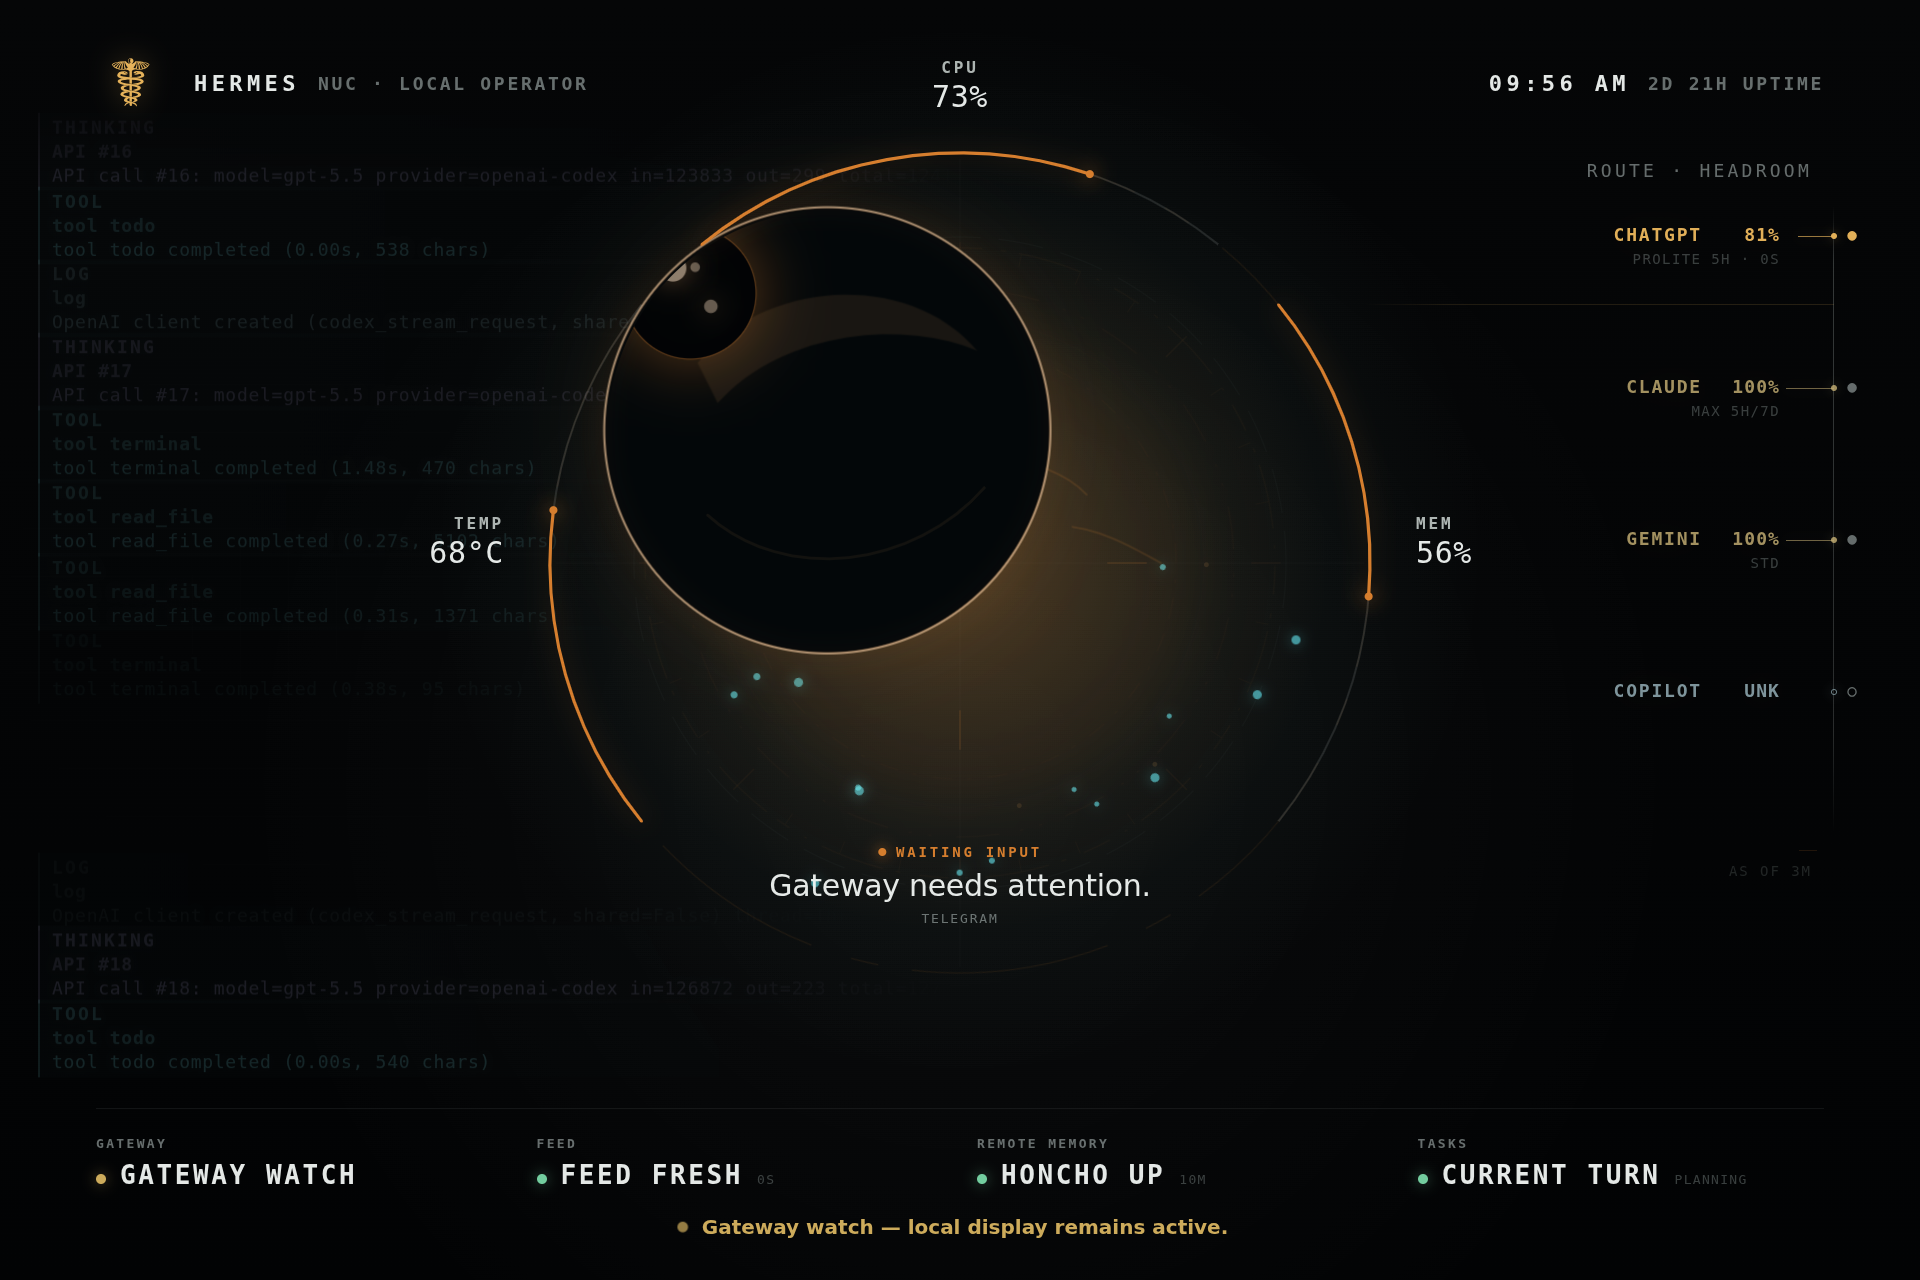
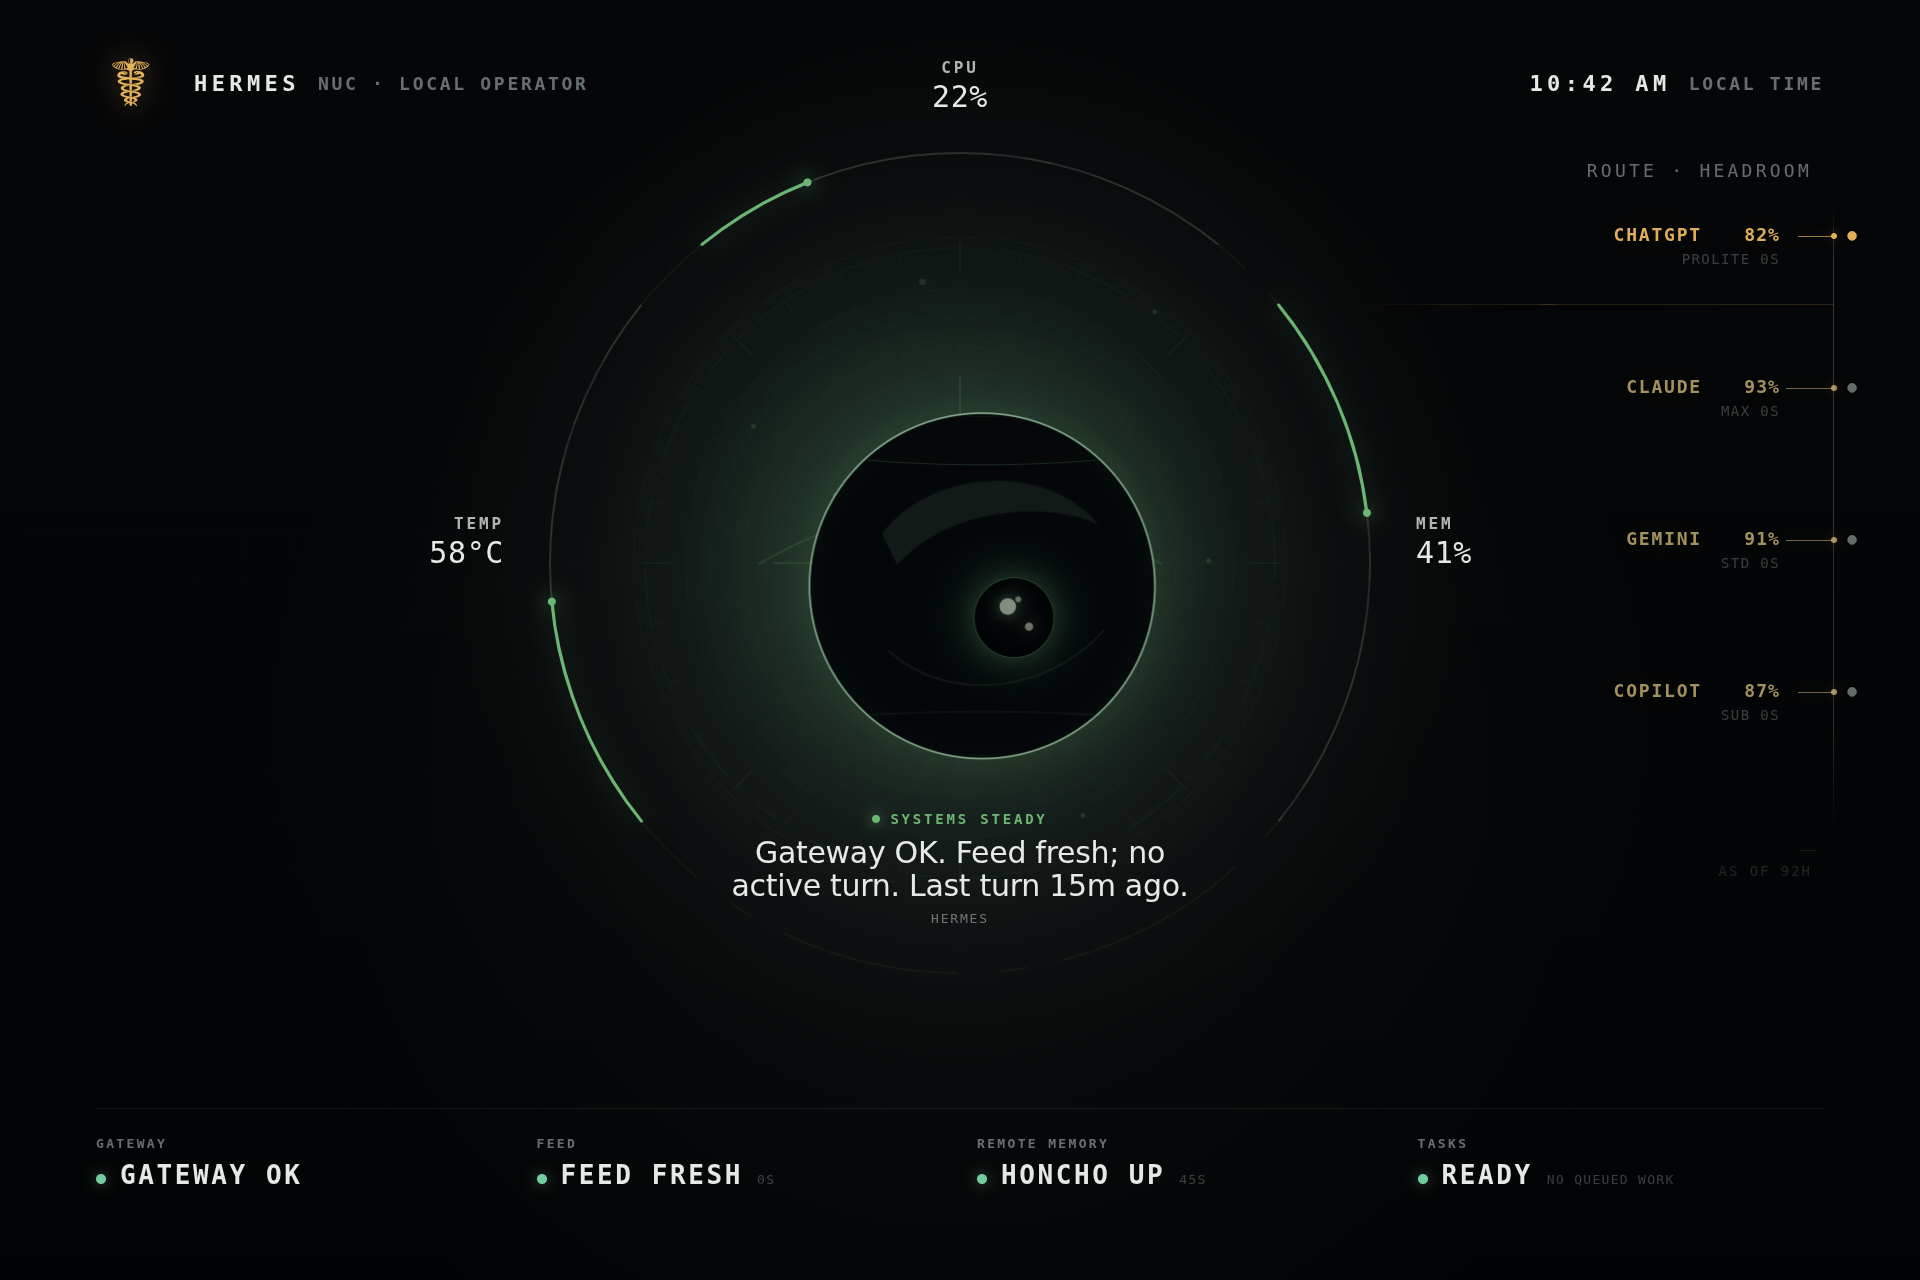
fix: avoid false gateway watch state

diff --git a/scripts/hermes_display_server.py b/scripts/hermes_display_server.py
@@ -1617,13 +1617,38 @@ def build_state_from_facts(facts: dict) -> dict:
     return state
 
 
+def gateway_process_running() -> bool:
+    """Best-effort local gateway liveness check for the physical display."""
+    try:
+        subprocess.check_output(
+            ["pgrep", "-af", r"hermes_cli\.main gateway run|hermes.*gateway run"],
+            text=True,
+            stderr=subprocess.DEVNULL,
+            timeout=1.0,
+        )
+        return True
+    except Exception:
+        return False
+
+
 def gateway_ok_recently(text: str, minutes: float = 10.0) -> bool:
-    """True only when gateway-health markers are recent, not merely present in a stale tail."""
-    markers = ("Telegram polling resumed", "[MEMORY]", "kanban dispatcher")
+    """True when recent gateway logs or the local gateway process show liveness."""
+    markers = (
+        "Telegram polling resumed",
+        "[MEMORY]",
+        "kanban dispatcher",
+        "inbound message:",
+        "response ready:",
+        "Sending response",
+        "Flushing text batch",
+        "Connected to Telegram",
+        "Gateway running",
+        "Cron ticker started",
+    )
     for line in str(text or "").splitlines():
         if any(marker in line for marker in markers) and line_is_recent(line, minutes):
             return True
-    return False
+    return gateway_process_running()
 
 
 def build_state() -> dict:

diff --git a/scripts/check-kanban-snapshot.py b/scripts/check-kanban-snapshot.py
@@ -183,6 +183,18 @@ def run_resolver_checks() -> None:
     expect(explicit_blocked["display_state"] == "blocked_user_task", "explicit blocked work still renders blocked")
 
 
+def run_gateway_liveness_checks() -> None:
+    stamp = datetime.now().strftime("%Y-%m-%d %H:%M:%S")
+    expect(
+        srv.gateway_ok_recently(f'{stamp} INFO gateway.run: inbound message: platform=telegram user=Brian chat=123 msg="hello"'),
+        "recent inbound gateway message counts as gateway healthy",
+    )
+    expect(
+        srv.gateway_ok_recently(f'{stamp} INFO gateway.run: response ready: platform=telegram chat=123 time=1.2s'),
+        "recent gateway response counts as gateway healthy",
+    )
+
+
 def run_turn_end_checks(tmp_path: Path) -> None:
     stamp = datetime.now().strftime("%Y-%m-%d %H:%M:%S")
     session_id = "testsession_000001"
@@ -228,6 +240,7 @@ def main() -> int:
         build_kanban_db(db_path)
         run_snapshot_checks(db_path)
         run_resolver_checks()
+        run_gateway_liveness_checks()
         run_turn_end_checks(tmp_path)
 
     if FAILURES:
